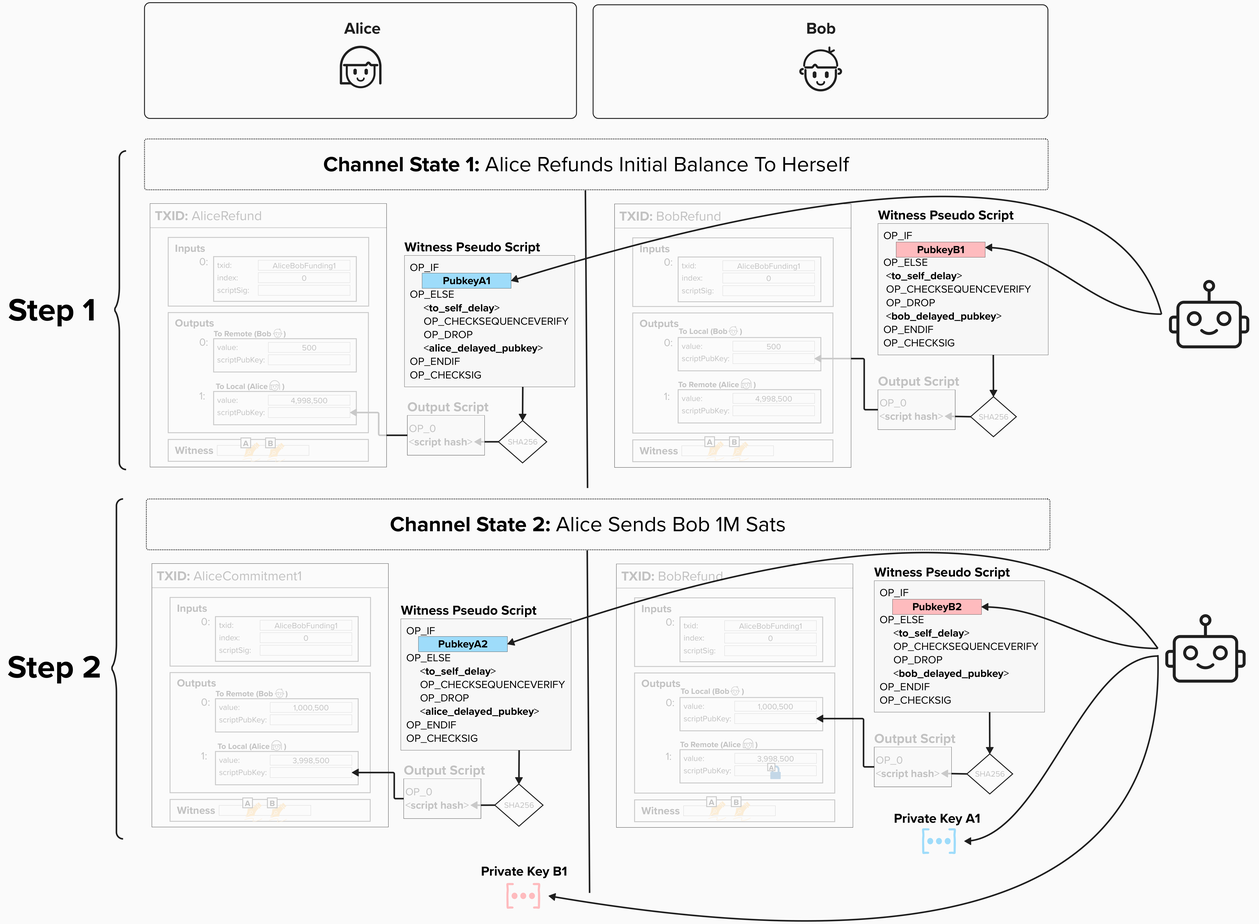
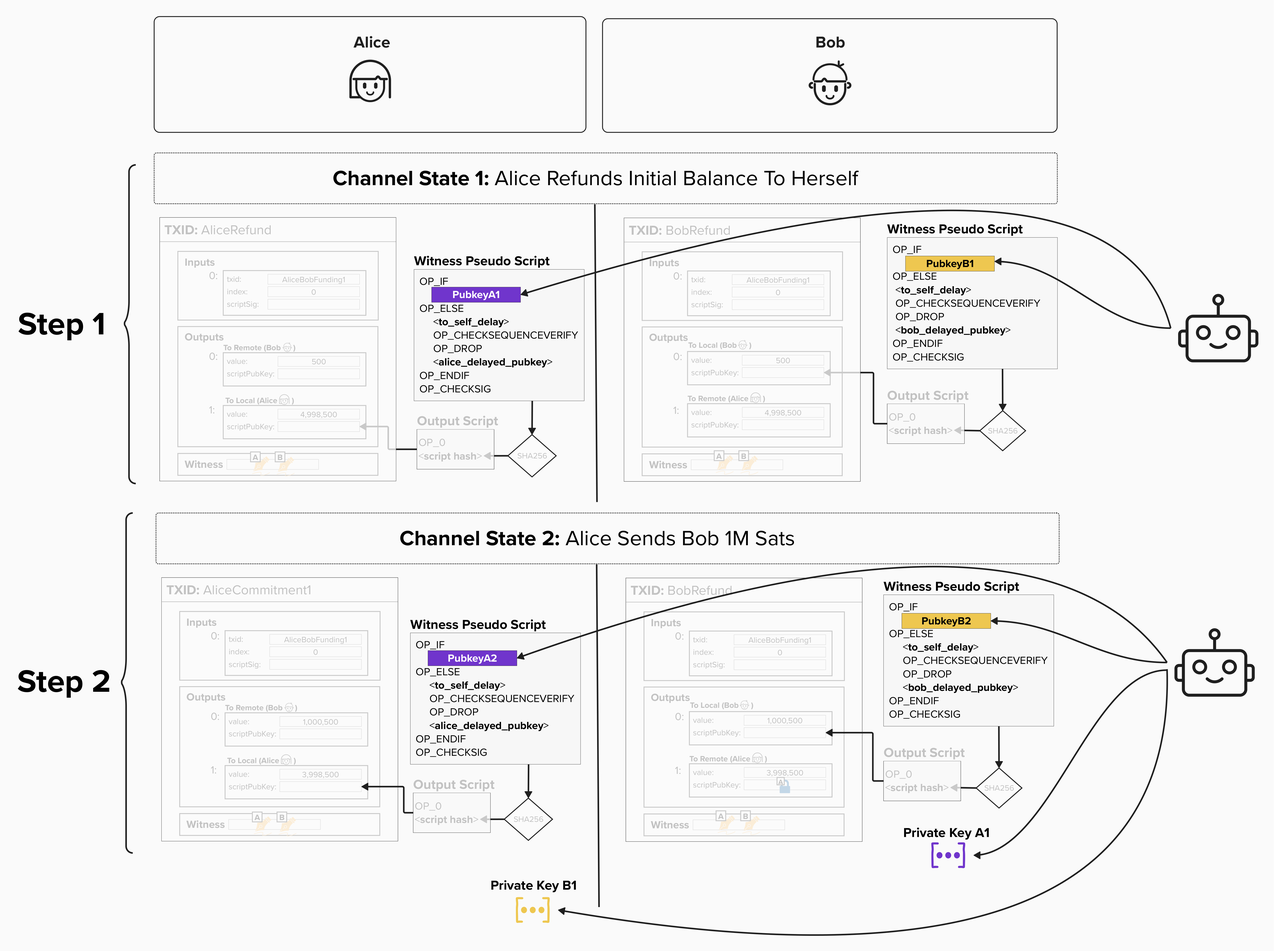
add per commitment content

diff --git a/.tutorial/xx9-revocable-transactions.md b/.tutorial/xx9-revocable-transactions.md
@@ -56,68 +56,91 @@ Okay, now that we've reviewed this gist of how our penalty mechanism works, let'
 This way, each party provides a way for the counterparty to claim their funds ***if and only if*** they cheat and publish an old transaction.
 
 
-### Starting With The End In Mind
-Buckle up! We're diving deep!
+### Calculating A Revocation Public Key And Private Key
 
-Just as we've done earlier, let's start with the end in mind. Remember how we started our Lightning journey by generating various **basepoints** and **secrets**? Well, two of those basepoints are going to come in handy right now. Specifically, the **delayed payment basepoint** and the **revocation basepoint**. We'll use those basepoints to calculate ***new*** public keys for each commitment transaction, which are deterministically derived from the basepoints but not equal to the basepoints themselves. This is why, in the diagram below, the legend shows Alice and Bob's **delayed payment public key** and the **revocation public key** as `Ax` and `Bx`, where `x` is meant to be replaced with the number of the commitment. Remember, this is just a visual representation of the fact that the public keys will change for each commitment, but they are derived from the same basepoint. We'll learn how in just a moment!
+Below is a diagram showing, roughly, how Alice and Bob can exchange public and private key information in such a way that they satisfy the properties listed above. In my humble opinion, this diagram does a pretty good job of explaining how the process of revoking old commitment transactions work, while also tying it back to the public and private keys that we created at the beggining of the course.
 
-NOTE: This is different than what we did for the **payment basepoint**! When we create outputs for our conterpary, we simply lock to their **payment basepoint** to make things easier for them. This is easier for them because, as you may have guessed, if we deterministically derive new public keys for each state, that means we need to remember some sort of **state data** so that we can correctly derive the private key to spend from the public key in any given state. Since the security model of Lightning is to protect our counterpary from *us* cheating, then it makes sense to simply lock their ouputs to their **payment basepoint**, which does not change for each commitment.
-
-<p align="center" style="width: 50%; max-width: 300px;">
-  <img src="./tutorial_images/revocation_keys_primer1.png" alt="revocation_keys_primer1" width="100%" height="auto">
-</p>
-
-Now, when we advance to a new channel state, we'll use new **delayed payment public keys** and the **revocation public keys**, derived from the same basepoints. This is demonstrated in the visual below by showing `A2` for the public keys in Alice's version of the commitment transaction and `B2` for the public keys in Bob's version of the commitment transaction.
+When you see a gear icon (see below for example), it means we're performing some type of algorithm or cryptographic operation. During our first pass through, we'll explain what the algorithm *does*, but we won't review the specific function just yet. After we discuss the overall flow, we'll dig into the actual equations and, of course, implement them ourselves in code!
 
 <p align="center" style="width: 50%; max-width: 300px;">
-  <img src="./tutorial_images/revocation_keys_primer2.png" alt="revocation_keys_primer2" width="100%" height="auto">
+  <img src="./tutorial_images/operation.png" alt="operation" width="5%" height="auto">
 </p>
 
-
-## Calculating A Revocation Public Key And Private Key
-
-So, now let's get to the question we've all been waiting for... **"how can we create revocation public keys such that they satisfy the principles below"**?
-1) Create public keys, which we'll call **revocation public keys**, that Alice or Bob can spend from if their counterparty attempts to cheat.
-2) Neither Alice nor Bob should know the private key to their own **revocation public key**.
-3) When advancing to a new channel state, Alice and Bob should be able to obtain (or, more specifically, calculate) the private key to **their counterparty's revocation public key**. 
-
-Below is a diagram showing, roughly, how Alice and Bob can exchange public and private key information in such a way that they satisfy the properties listed above (ex: neither party knows the private key to their own revocation public key).
-
-Note, this diagram does not go into the exact protocol details for how each key is derived. Instead, it's meant to further build your intuition as to how revocation keys work. For this explanation, we're skipping over how these keys are generated. If you're interested in learning how all Lightning keys can be derived from a single seed, please see the optional section in the appendix, titled "Revocation Keys Deep Dive".
-
-Also, note that the below diagram uses the following terminology:
-- **Point** (ex: Revocation Basepoint, Per-Commitment Point)
-- **Secret** (ex: Revocation Basepoint Secret, Per-Commitment Secret)
-
-A "Point" is a public key on the secp256k1 curve, while a "Secret" is a private key. We use this terminology because these "points" and "secrets" are used to derive the actual revocation public and private keys that are used in the script, but they are not the actual keys themselves. 
-
+Let's get to it!
 
 <p align="center" style="width: 50%; max-width: 300px;">
   <img src="./tutorial_images/revocationSteps.png" alt="revocationSteps" width="100%" height="auto">
 </p>
 
-### Step 1
-At the start of Alice and Bob's Lightning channel, each party will generate the following set of public and private keys:
-- **Revocation Basepoint and Revocation Basepoint Secret**: This is a public/private key pair that is constant across the entire length of a payment channel. As we'll soon see, this will be one piece that we'll use to create a new key pair for the revocation path.
+<details>
+  <summary>Click to see how the above diagram relates to the "gentle" introduction</summary>
 
-For *each commitment transaction (each new channel state)*, Alice and Bob will each generate the following set of public and private keys:
-- **Per-Commitment Point and Per-Commitment Secret**: For each commitment transaction, Alice and Bob will generate a new public/private key pair that they will use to tweak the Revocation key pair, thus creating unique key pairs for each commitment state.
+Honestly, this diagram might be an absolute mess and make little sense. If that's the case, I appologize in advance. Otherwise, I hope it's useful and makes it a little more clear how all of the cryptographic material connects back to the "gentle" introduction we just reviewed.
+
+<p align="center" style="width: 50%; max-width: 300px;">
+  <img src="./tutorial_images/diagram_connection.png" alt="diagram_connection" width="100%" height="auto">
+</p>
+
+</details>
+
+⚠ **DISCLAIMER: The "Steps" outlined below (and in the diagram above) are not stricly meant to convey protocol steps. For example, "Step 4" is not meant to signal that all of the operations outlined in Step 4 happen, more or less, sequentially and as part of one atomic operation. Instead, the "Steps" are meant to help us break up each part of the process into an orderly sequence.**
+
+### Step 1
+By now, Alice and Bob's set of "Channel Keys" should look pretty familiar! For the revocation process, the following secrets and keys are going to be used:
+- **Revocation Basepoint and Revocation Basepoint Secret**: This is a public/private key pair that is constant across the entire length of our payment channel.
+- **Commitment Seed**: This is a random 256-bit secret. As we'll soon see, **we'll use this seed to create a unique public key for each commitment state**.
+  - **Protocol-Defined Starting Index**: BOLT 3 describes how to create a new secret for each commitment state by combining our **commitment seed** with an always-decreasing index, which starts at 281474976710655.  
+
+NOTE: For simplicity, we'll break from the prior color scheme and represent Alice's/Bob's secrets and keys using the following colors:
+- **Alice's** Revocation Basepoint & Basepoint Secret: **Blue**
+- **Alice's** Per Commitment Point and Per Commitment Secret: **Light Blue**
+- **Alice's** Revocation Secret and Revocation Public Key: **Purple**
+- **Bob's** Revocation Basepoint & Basepoint Secret: **Red**
+- **Bob's** Per Commitment Point and Per Commitment Secret: **Light Red**
+- **Bob's** Revocation Secret and Revocation Public Key: **Gold**
+
+<p align="center" style="width: 50%; max-width: 300px;">
+  <img src="./tutorial_images/revocation_step_1.png" alt="revocation_step_1" width="100%" height="auto">
+</p>
 
 ### Step 2
-When Alice and Bob set up their channel, they will exchange the following keys:
-- **Revocation Basepoint**
-- **Per-Commitment Point**
+When Alice and Bob open a channel, **they will create a unique public/private key pair for each commitment transaction, known as the **Per-Commitment Point** and **Per-Commitment Secret**. We'll review the actual key derivation process shortly, but, for now, it's sufficient to understand that each public/private key pair is created by running your **commitment seed** and **index** through an algorithm. Per BOLT 3, all channels start with an index of 281474976710655, and this index is decremented by 1 for each new state.
 
-Once exchanged, each party can combine **their partner's Revocation Basepoint** with **their Per-Commitment Point**, creating a new public key **that neither of them know the secret key to**. This is what they will use in the revocation spending path of their `to_local` output.
+<p align="center" style="width: 50%; max-width: 300px;">
+  <img src="./tutorial_images/revocation_step_2.png" alt="revocation_step_2" width="100%" height="auto">
+</p>
 
 ### Step 3
+Once Alice and Bob create their respective **Per-Commitment Points** and **Per-Commitment Secrets** for channel state 1, they will exchange the following keys...
+- Alice will give Bob her:
+  - **Revocation Basepoint**
+  - **Per-Commitment Point** for Channel State 1.
+- Bob will give Alice his:
+  - **Revocation Basepoint**
+  - **Per-Commitment Point** for Channel State 1.
+
+Remember, the **Revocation Basepoint** does not change during the entire duration of channel operation! We'll see why this is useful in just a moment.
+
+Once exchanged, each party can combine **their partner's Revocation Basepoint** with **their Per-Commitment Point**, creating a new public key **that neither of them know the secret key to**. This is what they will use in the revocation spending path of their `to_local` output!
+
+<p align="center" style="width: 50%; max-width: 300px;">
+  <img src="./tutorial_images/revocation_step_3.png" alt="revocation_step_3" width="100%" height="auto">
+</p>
+
+### Step 4
 When Alice and Bob decide to advance to a new channel state, they will exchange the following keys:
 - **The Current State's Per-Commitment Secret**
-- **The Next State's Per-Commitment Point**
+- **The Next State's Per-Commitment Point**: To calculate the next Per Commitment Point, each channel party will first calculate the next state's Per Commitment Secret by running their **commitment seed** and **the new channel state index** through the [bit-flipping algorithm described in BOLT 3](https://github.com/lightning/bolts/blob/master/03-transactions.md#per-commitment-secret-requirements). Once they get the Per Commitment Secret, they can simply multiply that by the generator point, *G*, to get the Per Commitment Point.
 
-By doing this, each party provides **their counterparty** with the neccessary information (the current state's per-commitment secret) to calculate the **their revocation public key**. In other words, Alice gives Bob the information needed for Bob to calculate Alice's **revocation private key** from the prior state. Therefore, Bob can spend from Alice's revocation path if she ever publishes the associated commitment transaction, which is now considered old since they are moving to a new state.
+By exchaning this information, each party provides **their counterparty** with the neccessary information (the prior state's per-commitment secret) to calculate the **their revocation public key**. In other words, Alice gives Bob the information needed for Bob to calculate Alice's **revocation private key** from their prior state. Therefore, Bob can spend from Alice's revocation path if she ever publishes the associated commitment transaction, which is now considered old since they are moving to a new state.
 
-They give their counterparty the next Per Commitment Point so that they can build the new state's commitment transactions. This process continues for each new commitment state.
+To make this more explicit, note that the revocation key that Alice uses in her version of the transaction is created using **Bob's Revocation Basepoint** and **Alice's Per Commitment Point**. Since Bob will NEVER reveal his **Revocation Basepoint Secret** to Alice, she will never be able to calculate the private key to the public key in her spending path. However, once Bob receives **Alice's Per Commitment Point**, he can calculate the private key because he also, of course, knows **his Revocation Basepoint Secret**.
+
+Also, they give their counterparty the next **Per Commitment Point**. The reason for this is not exactly obvious in the visual, since Bob doesn't need **Alice's Per Commitment Point** to create the revocation public key in his transaction. However, he does need it to calculate the revocation public key in Alice's version. Since Bob needs to provide Alice with a signature for every new commitment state, he needs to build her transactions locally to create that signature!
+
+<p align="center" style="width: 50%; max-width: 300px;">
+  <img src="./tutorial_images/revocation_step_4.png" alt="revocation_step_4" width="100%" height="auto">
+</p>
 
 ## ⚡ Generate A Revocation Public Key
 For this exercise, we'll get our hands dirty and implement a function that creates a revocation public key for a given channel state.

diff --git a/.tutorial/xx10-per-commitment-point.md b/.tutorial/xx10-per-commitment-point.md
@@ -1,0 +1,213 @@
+# Changing Our Public Keys For Each Commitment State
+
+## Per-Commitment Secrets & Points
+
+Alright, things are heating up fast. Hold on, we still have a lot to cover!
+
+In the last exercise, we learned that Alice and Bob will each generate a series of **Per-Commitiment Secrets** (Private Keys) and **Per-Commitment Points** (Public Keys) for each channel state. As we saw, these points are then used to create *unique* **Revocation Public Keys** for each channel state. Below is an image depicting this process from Alice's point of view. All she needs is a **commitment seed**, which she created when she opened the channel with Bob, and the **channel state index**. NOTE: in the below picture, the colors for Alice's keys have been changed back to match the colors in the original Channel Keys legend.
+
+SPOILER ALERT: The **Per-Commitment Points** is actually used for more than just the **Revocation Public Keys**, but more on that soon!  
+
+<p align="center" style="width: 50%; max-width: 300px;">
+  <img src="./tutorial_images/alice_per_commitment_points.png" alt="alice_per_commitment_points" width="50%" height="auto">
+</p>
+
+So, at this point, the outstanding question on *everyone's* mind is: **"How do we create the Per-Commitment Secret from the Commitment Seed?!"** In other words, what does the gear icon actually mean?
+
+We'll, let's dig into that now.
+
+## Deriving A Per Commitment Secret
+BOLT 3, in the [Per-commitment Secret Requirements](https://github.com/lightning/bolts/blob/master/03-transactions.md#per-commitment-secret-requirements) section, provides a specific algorithm for generating the secret for any given channel state. The algorithm, listed below, has the following two parameters:
+- **seed**: This is the commitment seed for the channel.
+- **I**: This is the index. Per BOLT 3, the index starts at 281474976710655 for the first channel state, and it's decremented by 1 for each new state.
+
+#### todo!: explain how it works
+
+```
+generate_from_seed(seed, I):
+P = seed
+for B in 47 down to 0:
+    if B set in I:
+        flip(B) in P
+        P = SHA256(P)
+return P
+```
+
+### ⚡ Build Per-Commitment Secret
+
+Now that we've reviewed how the formula works, let's implement it ourselves! To do this, head back over to `src/exercises/keys/channel_keys_manager.rs`. Since this is where we implemented our `ChannelKeysManager`, which holds our channel keys (ex: commitment seed), it will be useful to implement the ability to generate a per-commitment secret here!
+
+```rust
+impl ChannelKeyManager {
+pub fn build_commitment_secret(&self, commitment_number: u64) -> [u8; 32] {
+    let mut res: [u8; 32] = self.commitment_seed.clone();
+    for i in 0..48 {
+        let bitpos = 47 - i;
+        if commitment_number & (1 << bitpos) == (1 << bitpos) {
+            res[bitpos / 8] ^= 1 << (bitpos & 7);
+            res = Sha256::hash(&res).to_byte_array();
+        }
+    }
+    res
+  }
+}
+```
+
+<details>
+<summary>Step 1: Initialize the Result with the Commitment Seed</summary>
+
+We start by creating a mutable variable that will hold our result. We initialize it with a copy of our commitment_seed - this seed is the starting point for generating all commitment secrets.
+The mut keyword makes this variable mutable, which we'll need because we're going to modify it through the hashing process.
+
+```rust
+let mut res: [u8; 32] = self.commitment_seed.clone();
+```
+
+</details>
+
+
+</details>
+<details>
+  <summary>Step 2: Loop Through 48 Bits and Check Each One</summary>
+  
+The BOLT 3 algorithm examines 48 bits of the `commitment_number` (giving us 2^48 possible commitments). For each iteration, we calculate the bit position starting from bit 47 down to 0, then check if that bit is set in the commitment number using bitwise operations.
+The expression `commitment_number & (1 << bitpos)` checks if the bit at position `bitpos` is set to 1.
+
+```rust
+for i in 0..48 {
+    let bitpos = 47 - i;
+    if commitment_number & (1 << bitpos) == (1 << bitpos) {
+```
+</details>
+
+<details>
+<summary>Step 3: Flip the Bit and Hash</summary>
+
+When we find a set bit, we flip the corresponding bit in our result array, then hash the entire result with SHA256.
+
+We calculate which byte contains our bit (`bitpos / 8`) and which bit within that byte (`bitpos & 7`), then use XOR to flip it. The hash operation makes the process irreversible, which is key to the security of commitment secrets.
+
+```rust
+if commitment_number & (1 << bitpos) == (1 << bitpos) {
+  res[bitpos / 8] ^= 1 << (bitpos & 7);
+  res = Sha256::hash(&res).to_byte_array();
+}
+```
+</details>
+
+<details>
+  <summary>Step 4: Return the Commitment Secret</summary>
+  
+After processing all 48 bits, we return the final 32-byte secret unique to this commitment_number
+
+```rust
+res
+```
+
+</details>
+
+### ⚡ Build Per-Commitment Point
+
+Now that we have the ability to generate a Per-Commitment Secret, let's build the functionality to turn that into a Per-Commitment Point. To do this, we'll implement the function `derive_per_commitment_point`, on our `ChannelKeysManager`.
+
+This function will take one input: the `commitment_number`. We'll pass the commitment number into the `build_commitment_secret` function we created in the last exercise, which will return a `SecretKey` type. Just was we've done in previous exercises, we'll convert the secret key to a public key and return it!
+
+```rust
+impl ChannelKeyManager {
+    pub fn derive_per_commitment_point(&self, commitment_number: u64) -> PublicKey {
+        let secret = self.build_commitment_secret(commitment_number);
+        let secret_key = SecretKey::from_slice(&secret).expect("Valid secret");
+        PublicKey::from_secret_key(&self.secp_ctx, &secret_key)
+    }
+}
+```
+
+<details>
+  <summary>Step 1: Generate the Commitment Secret</summary>
+
+First, we use the `build_commitment_secret` function we just implemented to generate the unique secret for this commitment number
+
+```rust
+let secret = self.build_commitment_secret(commitment_number);
+```
+</details>
+
+<details>
+  <summary>Step 2: Convert Bytes to SecretKey</summary>
+
+Our commitment secret is currently just a 32-byte array. To perform elliptic curve operations on it, we need to convert it into a proper `SecretKey` type that the secp256k1 library can work with.
+
+The `from_slice` function parses our bytes and validates that they represent a valid secret key on the secp256k1 curve.
+
+```rust
+let secret_key = SecretKey::from_slice(&secret).expect("Valid secret");
+```
+
+</details>
+
+
+<details>
+  <summary>Step 3: Derive and Return the Public Key</summary>
+    
+Finally, we derive the public key from our secret key using elliptic curve multiplication. This public key is our **Per-Commitment Point** - it's safe to share with our channel partner and will be used in key derivation for this specific commitment transaction.
+
+```rust
+PublicKey::from_secret_key(&self.secp_ctx, &secret_key)
+```
+</details>
+
+## Lightning Key Derivation
+
+At this point, we should have a good intuition for how we can derive new **Revocation Public Keys** for each commitment state. However, the fun doesn't stop just yet! In Lightning, we actually derive new pubic keys for most of the keys used in each commitment transaction.
+
+For example, remember how we introduced a **Delayed Payment Public Key**, which is used in the delayed spending path (after the `to_self_delay` relative delay)? We'll, somewhat-similarly to the Revocation Public Key, this public key is also derived by combining it's basepoint (**Delayed Payment Basepoint**) with a given state's **Per-Commitment Point**.
+
+Take a look at the visual below. In it, you can see that we use each state's **Per-Commitment Point** and combine it with a **Basepoint** such that it produces a new public key, which we can place in the actual locking script.
+
+<p align="center" style="width: 50%; max-width: 300px;">
+  <img src="./tutorial_images/alice_delayed_payment_derivation.png" alt="alice_delayed_payment_derivation" width="100%" height="auto">
+</p>
+
+However, the crucial difference here is that the **Delayed Payment Public Key** is not derived the same way that the **Revocation Public Key** is. Instead, it uses the *local party's* **Basepoint**. For example, Alice will use her **Delayed Payment Basepoint** and combine it with *her* **Per-Commitment Point**. She'll use the below equation to calculate the **Delayed Payment Public Key** , which she will put in *her* delayed spending path. The reason she *won't* use Bob's Basepoint is because this path is only ever meant to be spent by Alice, so it's important that she is able to derive the private key to spend from this path at any time.
+
+```
+pubkey = basepoint + SHA256(per_commitment_point || basepoint) * G
+```
+
+## Delayed Public Keys in Locking Scripts
+Now that we know how we'll derive the **Delayed Payment Public Key** for a given transaction, let's review the overall flow one more time to make sure everything makes sense! Then, we'll code it up!
+
+In the below diagram, you'll see the overall **Channel Establishment** message flow that we reviewed earlier. In it, you can see all of the **Basepoints** that Alice and Bob send to each other in the `open_channel` and `accept_channel` messages. If you've been paying extra close attention, you may notice that we've now included the **First Per-Commitment Points** in the `open_channel` and `accept_channel` messages! Per the [BOLT 2 specification](https://github.com/lightning/bolts/blob/master/02-peer-protocol.md#the-open_channel-message) the **First Per-Commitment Points** are actually included in these messages, but we left them out earlier because we had not yet introduced them!
+
+At the bottom of the diagram, you can see how, for Alice's version of the commitment transaction, we calculate *her* **Delayed Payment Public Key** by plugging *her* **Delayed Payment Basepoint** and *her* **First Per-Commitment Point** into the formula provided in the BOLT 3 specification. On the other hand, we use *Bob's* **Delayed Payment Basepoint** and *Bob's* **First Per-Commitment Point** when calculating *his* **Delayed Payment Public Key**.
+
+<p align="center" style="width: 50%; max-width: 300px;">
+  <img src="./tutorial_images/delayed_payment_derivation.png" alt="delayed_payment_derivation" width="100%" height="auto">
+</p>
+
+#### Question: Why does Alice need Bob's Delayed Payment Basepoint? It looks like she only uses her Delayed Payment Basepoint to create the Delayed Payment Public Key that goes into her to_local witness script...
+<details>
+  <summary>Answer</summary>
+
+Remember, each new transaction that Alice and Bob create is spending from the 2-of-2 funding output! Since Alice and Bob each have their own version of the commitment transactions, they will each require unique signatures from eachother to ensure their commitment transactions are valid.
+
+Therefore, Alice will need to re-create *Bob's* version of the commitment transaction locally so that she can generate a signature for it and send that signature to Bob! Bob will do the same.
+
+To ensure that Alice and Bob can create each other's commitment transaction's locally, they will share their Basepoints at when opening their channel.
+
+</details>
+
+
+Just as we've done earlier, let's start with the end in mind. Remember how we started our Lightning journey by generating various **basepoints** and **secrets**? Well, two of those basepoints are going to come in handy right now. Specifically, the **delayed payment basepoint** and the **revocation basepoint**. We'll use those basepoints to calculate ***new*** public keys for each commitment transaction, which are deterministically derived from the basepoints but not equal to the basepoints themselves. This is why, in the diagram below, the legend shows Alice and Bob's **delayed payment public key** and the **revocation public key** as `Ax` and `Bx`, where `x` is meant to be replaced with the number of the commitment. Remember, this is just a visual representation of the fact that the public keys will change for each commitment, but they are derived from the same basepoint. We'll learn how in just a moment!
+
+NOTE: This is different than what we did for the **payment basepoint**! When we create outputs for our conterpary, we simply lock to their **payment basepoint** to make things easier for them. This is easier for them because, as you may have guessed, if we deterministically derive new public keys for each state, that means we need to remember some sort of **state data** so that we can correctly derive the private key to spend from the public key in any given state. Since the security model of Lightning is to protect our counterpary from *us* cheating, then it makes sense to simply lock their ouputs to their **payment basepoint**, which does not change for each commitment.
+
+<p align="center" style="width: 50%; max-width: 300px;">
+  <img src="./tutorial_images/revocation_keys_primer1.png" alt="revocation_keys_primer1" width="100%" height="auto">
+</p>
+
+Now, when we advance to a new channel state, we'll use new **delayed payment public keys** and the **revocation public keys**, derived from the same basepoints. This is demonstrated in the visual below by showing `A2` for the public keys in Alice's version of the commitment transaction and `B2` for the public keys in Bob's version of the commitment transaction.
+
+<p align="center" style="width: 50%; max-width: 300px;">
+  <img src="./tutorial_images/revocation_keys_primer2.png" alt="revocation_keys_primer2" width="100%" height="auto">
+</p>
